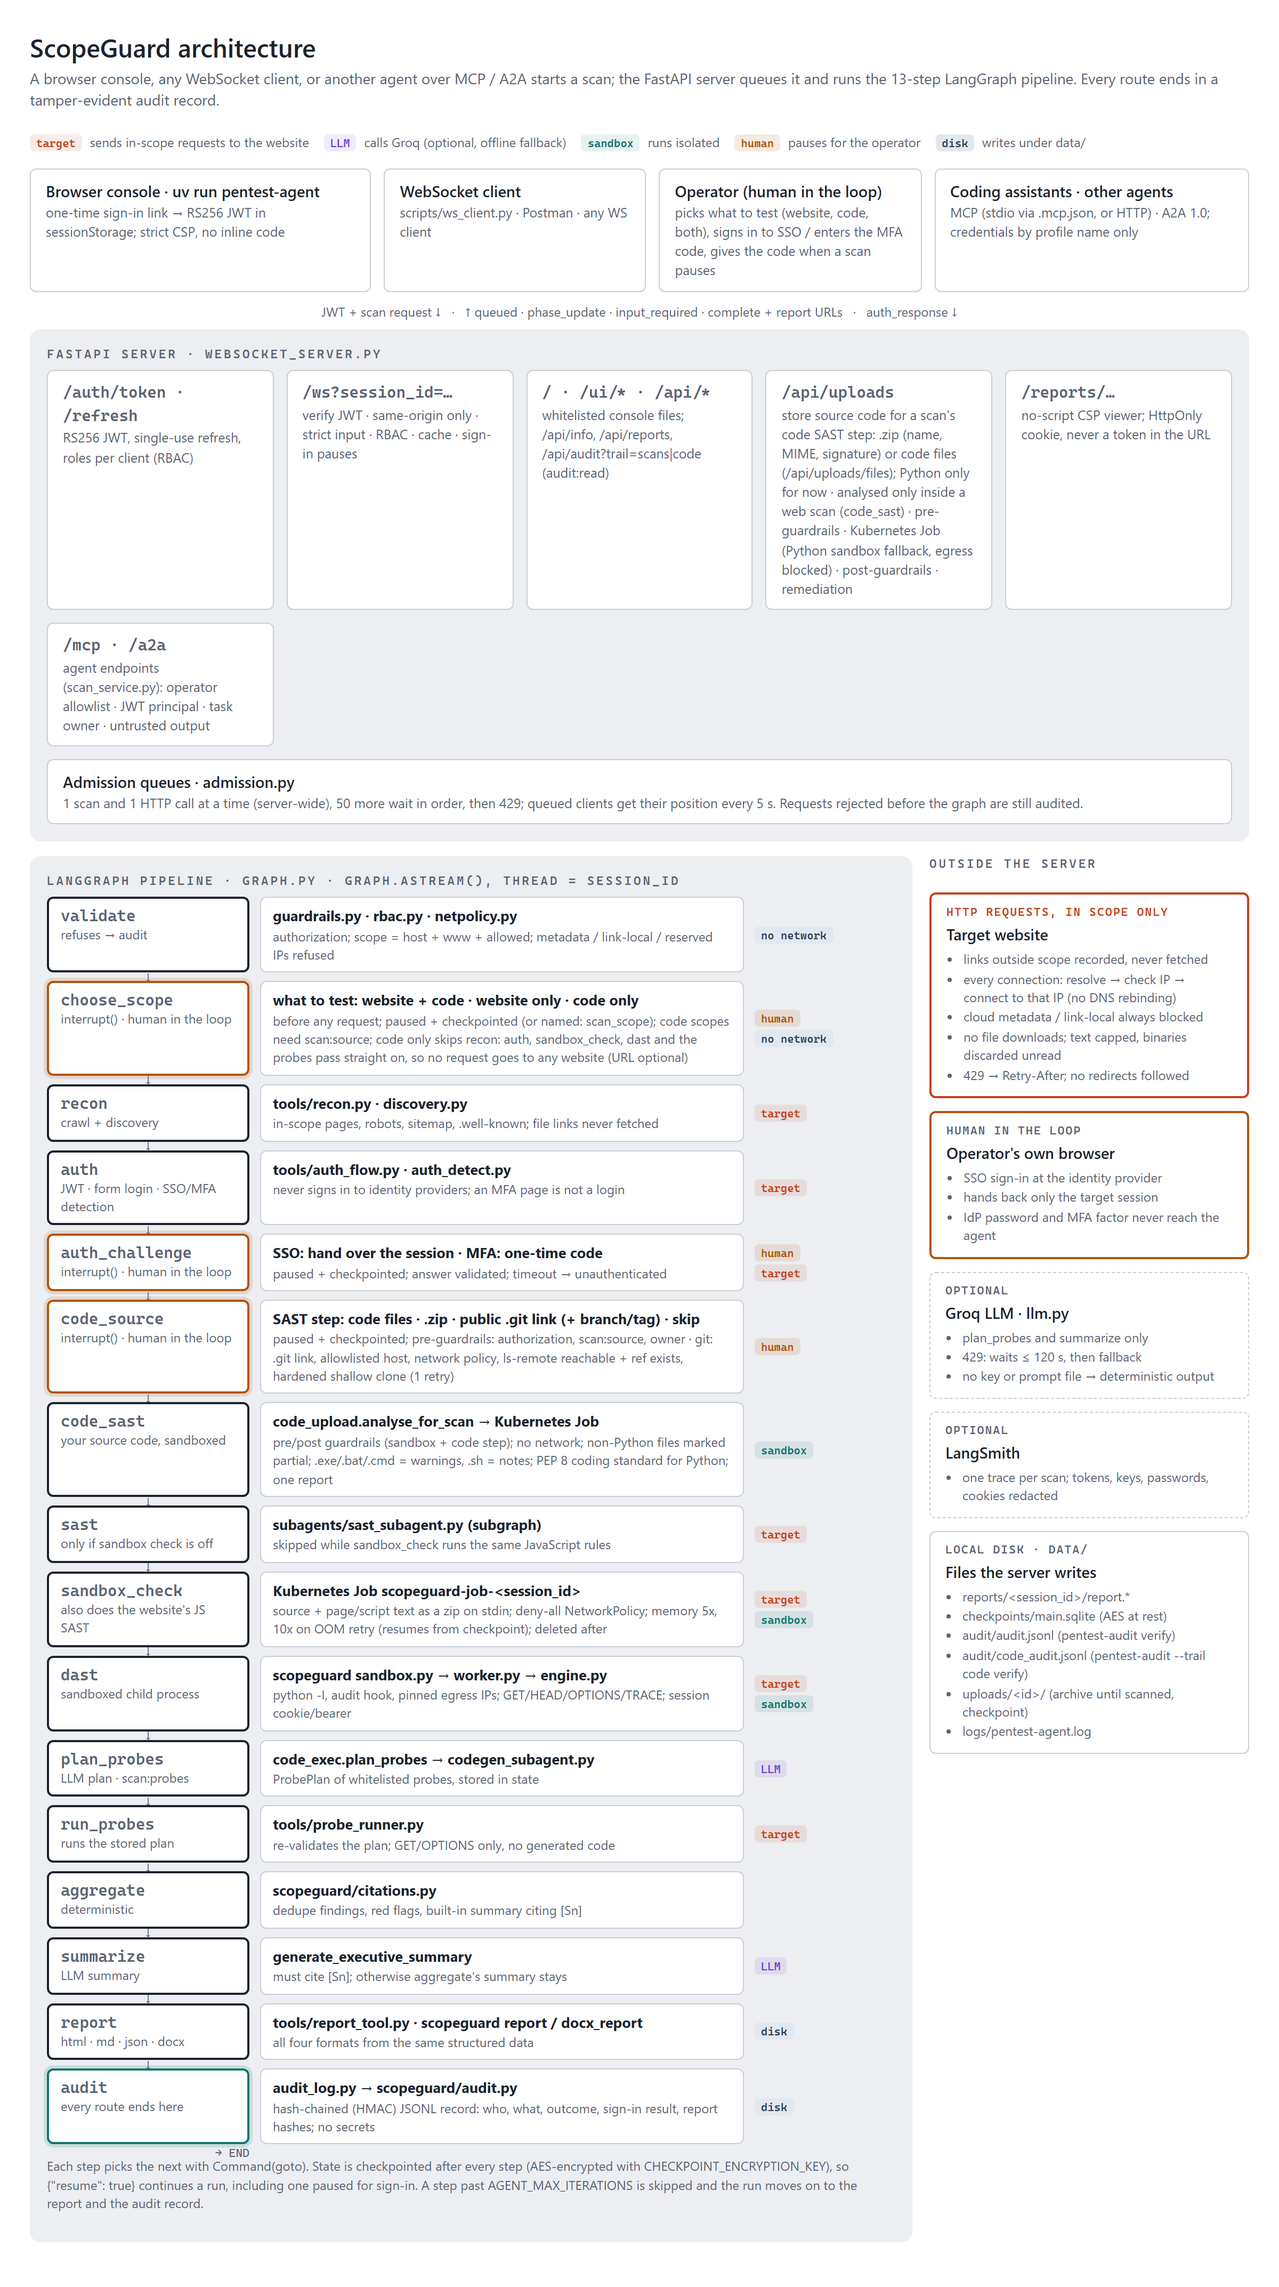
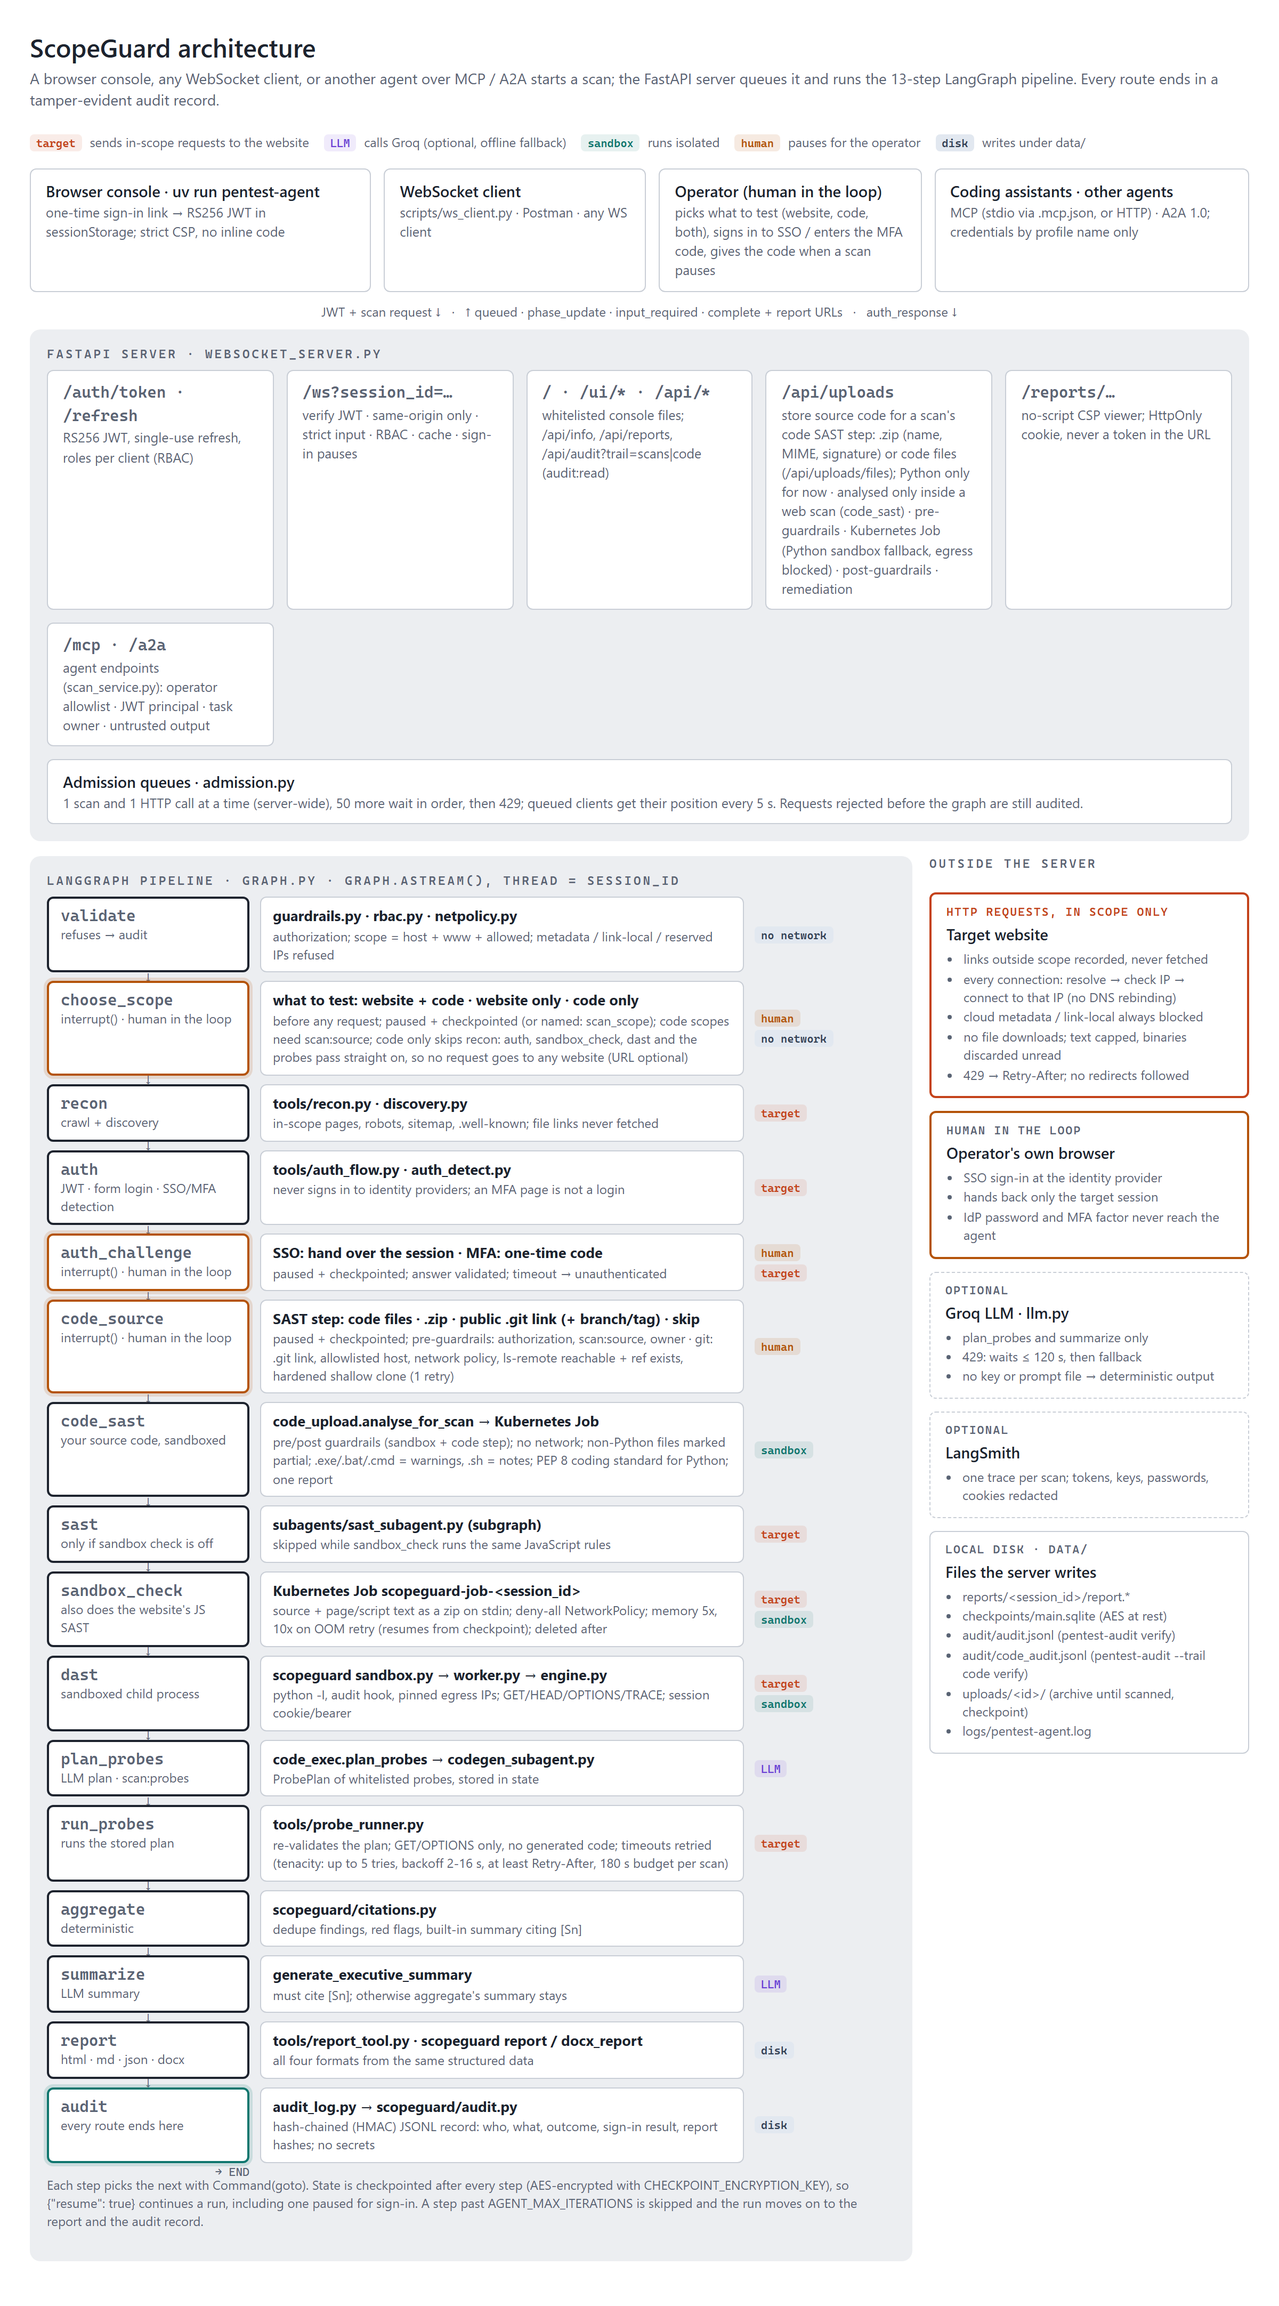
Retry timed-out probes with tenacity; plain red flags for failed probes
A custom probe whose request timed out (e.g. "csp_weakness at /:
ReadTimeout" after the DAST burst against a Vercel site) was tried once
and reported with the bare exception name.

- tenacity retries a probe on a timeout or dropped connection: up to
  PROBE_MAX_ATTEMPTS (5) tries, exponential backoff 2, 4, 8, 16 s, never
  shorter than the target's last Retry-After (RateLimitStats.last_wait,
  capped like the transport), 25 s timeout on retries
- all retries of one scan stay within PROBE_RETRY_BUDGET_SECONDS (180), so
  a site that is down does not stall the scan
- HTTP 429 stays in the transport (http_retry honours Retry-After)
- a probe that still fails gets a plain red flag: "the site sent no
  response within 25 s (tried 5 times), so this check was not run"
- tests (backoff, budget, Retry-After floor), README, diagrams, skill and
  .env.example updated

diff --git a/docs/src/scan-story.html b/docs/src/scan-story.html
@@ -128,7 +128,7 @@
   <div class="h2row"><h2>Act 3 · Testing and writing it up</h2><span>Careful, read-only checks, then the paperwork.</span></div>
   <div class="cards c3">
     <div class="card"><span class="n">14</span><h3>The Prober</h3><code>run_probes</code><span class="chip c-web">visits your website</span>
-      <p>Double-checks the plan, then runs those checks with reading requests only. A resumed scan doesn't ask the AI again.</p></div>
+      <p>Double-checks the plan, then runs those checks with reading requests only. If your site is slow to answer, it waits a little longer each time and tries again (up to 5 times); a check that still gets no answer is listed as not run. A resumed scan doesn't ask the AI again.</p></div>
     <div class="card"><span class="n">15</span><h3>The Collector</h3><code>aggregate</code>
       <p>Gathers every finding, removes duplicates, notes what couldn't be tested, and writes a factual summary where each statement points to its source, like [S1].</p></div>
     <div class="card"><span class="n">16</span><h3>The AI writer</h3><code>summarize</code><span class="chip c-ai">uses the AI</span>

diff --git a/docs/src/architecture.html b/docs/src/architecture.html
@@ -137,7 +137,7 @@
         <div class="tags"><i class="tag llm">LLM</i></div>
 
         <div class="node"><span class="t">run_probes</span><span>runs the stored plan</span></div>
-        <div class="mod"><b>tools/probe_runner.py</b><span>re-validates the plan; GET/OPTIONS only, no generated code</span></div>
+        <div class="mod"><b>tools/probe_runner.py</b><span>re-validates the plan; GET/OPTIONS only, no generated code; timeouts retried (tenacity: up to 5 tries, backoff 2-16 s, at least Retry-After, 180 s budget per scan)</span></div>
         <div class="tags"><i class="tag web">target</i></div>
 
         <div class="node"><span class="t">aggregate</span><span>deterministic</span></div>

diff --git a/src/pentest_agent/tools/probe_runner.py b/src/pentest_agent/tools/probe_runner.py
@@ -8,7 +8,15 @@ import time
 from urllib.parse import parse_qsl, urlencode, urljoin, urlparse, urlunparse
 
 import httpx
+from tenacity import (
+    RetryCallState,
+    Retrying,
+    retry_if_exception_type,
+    stop_after_attempt,
+    wait_exponential,
+)
 
+from pentest_agent.config import settings
 from pentest_agent.http_retry import rate_limited_client
 from pentest_agent.tools.probe_models import (
     MAX_PROBES,
@@ -19,12 +27,86 @@ from pentest_agent.tools.probe_models import (
 )
 from pentest_agent.tracing import traceable
 from pentest_agent.ttl_cache import TTLCache, make_key
-from scopeguard.ratelimit import RateLimitStats
+from scopeguard.ratelimit import DEFAULT_MAX_WAIT, RateLimitStats
 
 logger = logging.getLogger(__name__)
 
 MAX_RESPONSE_BYTES = 1_000_000
 REQUEST_TIMEOUT = 10.0
+# Retries (tenacity) for a probe whose request failed transiently: a timeout or a dropped
+# connection. Probes are read-only GET/OPTIONS, and a site often answers slowly for a moment after
+# the DAST burst. Up to settings.probe_max_attempts tries; exponential backoff 2, 4, 8, 16 s, never
+# shorter than the target's last Retry-After (RateLimitStats.last_wait, capped like the transport);
+# RETRY_TIMEOUT on retries; all retries of a scan within settings.probe_retry_budget_seconds.
+# HTTP 429 itself is retried by the transport (http_retry, honours Retry-After), never here.
+RETRY_TIMEOUT = 25.0
+RETRY_DELAY_SECONDS = 2.0
+RETRY_DELAY_MAX_SECONDS = 16.0
+_TRANSIENT = (httpx.TimeoutException, httpx.RemoteProtocolError, httpx.ReadError, httpx.WriteError)
+_BACKOFF = wait_exponential(multiplier=RETRY_DELAY_SECONDS, min=RETRY_DELAY_SECONDS, max=RETRY_DELAY_MAX_SECONDS)
+
+
+def _pause(seconds: float) -> None:  # tenacity's sleep; tests replace it
+    time.sleep(seconds)
+
+
+class RetryBudget:
+    """Seconds all probe retries of one scan may still spend (waits + retried requests)."""
+
+    def __init__(self, seconds: float):
+        self.left = float(seconds)
+
+
+def _execute_with_retries(client: httpx.Client, target_url: str, probe: ProbeCase, allowed: set[str],
+                          budget: RetryBudget, rate_stats: RateLimitStats) -> list[ProbeFinding]:
+    """execute_probe with tenacity: retried on a transient failure (timeout, dropped connection) with
+    exponential backoff, at least the target's last Retry-After, until settings.probe_max_attempts
+    tries or the scan's retry budget is spent. The last failure is re-raised with ``probe_attempts``."""
+    default_timeout = client.timeout
+    last_mark: list[float] = []
+
+    def wait(state: RetryCallState) -> float:
+        return min(max(_BACKOFF(state), rate_stats.last_wait), DEFAULT_MAX_WAIT)
+
+    def out_of_budget(state: RetryCallState) -> bool:
+        now = time.monotonic()
+        if last_mark:  # the wait + retried request that just failed
+            budget.left -= now - last_mark[0]
+        last_mark[:] = [now]
+        return budget.left < wait(state) + RETRY_TIMEOUT  # the next retry could cost that much
+
+    def before_sleep(state: RetryCallState) -> None:
+        client.timeout = httpx.Timeout(RETRY_TIMEOUT)
+        logger.info("Probe %s at %s failed transiently (%s, try %d of %d); retrying in %.0fs",
+                    probe.probe_type.value, probe.path, type(state.outcome.exception()).__name__,
+                    state.attempt_number, settings.probe_max_attempts, wait(state))
+
+    retrying = Retrying(retry=retry_if_exception_type(_TRANSIENT), wait=wait,
+                        stop=stop_after_attempt(settings.probe_max_attempts) | out_of_budget,
+                        before_sleep=before_sleep, sleep=lambda seconds: _pause(seconds), reraise=True)
+    try:
+        return retrying(execute_probe, client=client, base_url=target_url, probe=probe, allowed_domains=allowed)
+    except _TRANSIENT as exc:
+        exc.probe_attempts = retrying.statistics.get("attempt_number", 1)
+        if last_mark:
+            budget.left -= time.monotonic() - last_mark[0]
+        raise
+    finally:
+        client.timeout = default_timeout
+
+
+def describe_probe_failure(exc: BaseException, attempts: int = 1) -> str:
+    """A probe failure in plain words for the red flag (no stack trace, no response content)."""
+    tried = f"tried {attempts} time{'s' if attempts != 1 else ''}"
+    if isinstance(exc, httpx.TimeoutException):
+        wait = int(RETRY_TIMEOUT if attempts > 1 else REQUEST_TIMEOUT)
+        return (f"the site sent no response within {wait} s ({tried}), so this check was not run; the "
+                "site may have been slow or throttling requests after the DAST step")
+    if isinstance(exc, (httpx.RemoteProtocolError, httpx.ReadError, httpx.WriteError)):
+        return f"the site closed the connection ({tried}), so this check was not run"
+    if isinstance(exc, httpx.ConnectError):
+        return f"could not connect to the site ({str(exc)[:120] or type(exc).__name__}), so this check was not run"
+    return f"{type(exc).__name__}: {str(exc)[:160]}" if str(exc) else type(exc).__name__
 
 ALLOWED_METHODS = {"GET", "OPTIONS"}
 
@@ -807,6 +889,7 @@ def run_probe_plan(
 
     findings: list[ProbeFinding] = []
     errors: list[str] = []
+    budget = RetryBudget(settings.probe_retry_budget_seconds)  # all probe retries of this scan
 
     rate_stats = RateLimitStats()
     with rate_limited_client(
@@ -837,12 +920,7 @@ def run_probe_plan(
                     findings.extend(results)
                     continue
 
-                results = execute_probe(
-                    client=client,
-                    base_url=target_url,
-                    probe=probe,
-                    allowed_domains=allowed,
-                )
+                results = _execute_with_retries(client, target_url, probe, allowed, budget, rate_stats)
                 probe_cache.put(cache_key, results)
 
                 findings.extend(results)
@@ -862,7 +940,7 @@ def run_probe_plan(
 
                 errors.append(
                     f"{probe.probe_type.value} at {probe.path}: "
-                    f"{type(exc).__name__}"
+                    f"{describe_probe_failure(exc, getattr(exc, 'probe_attempts', 1))}"
                 )
 
     rate_flag = rate_stats.red_flag()

diff --git a/tests/test_probe_checks.py b/tests/test_probe_checks.py
@@ -200,3 +200,72 @@ def test_llm_plan_drops_parameter_probes_without_parameter():
     plan = ProbePlan(probes=[ProbeCase(probe_type=ProbeType.OPEN_REDIRECT, path="/", reason="t"),
                              ProbeCase(probe_type=ProbeType.CORS, path="/", reason="t")])
     assert [p.probe_type for p in cg.drop_unusable_probes(plan).probes] == [ProbeType.CORS]
+
+
+# ---------------------------------------------------------------- transient failures (tenacity)
+@pytest.fixture
+def waits(monkeypatch):
+    """The backoff waits tenacity asks for (nothing really sleeps)."""
+    seen = []
+    monkeypatch.setattr(pr, "_pause", seen.append)
+    return seen
+
+
+def _flaky_target(monkeypatch, fail_times):
+    timeouts = []
+
+    def handler(request):
+        timeouts.append(request.extensions.get("timeout", {}).get("read"))
+        if len(timeouts) <= fail_times:
+            raise httpx.ReadTimeout("The read operation timed out", request=request)
+        return httpx.Response(200, headers={"content-security-policy": "script-src 'unsafe-inline'"}, text="ok")
+
+    monkeypatch.setattr(pr, "rate_limited_client",
+                        lambda stats, verify=True, limits=None, **kw: httpx.Client(
+                            transport=httpx.MockTransport(handler), **kw))
+    return timeouts
+
+
+CSP = ProbeCase(probe_type=ProbeType.CSP_WEAKNESS, path="/", reason="t")
+
+
+def test_a_timed_out_probe_is_retried_with_a_longer_timeout(monkeypatch, waits):
+    timeouts = _flaky_target(monkeypatch, fail_times=1)
+    findings, errors = _run([CSP])
+    assert not errors and findings  # the retry got the answer
+    assert timeouts == [pr.REQUEST_TIMEOUT, pr.RETRY_TIMEOUT] and waits == [2]
+
+
+def test_up_to_five_tries_with_exponential_backoff(monkeypatch, waits):
+    timeouts = _flaky_target(monkeypatch, fail_times=4)
+    findings, errors = _run([CSP])
+    assert not errors and findings and len(timeouts) == 5  # the fifth try answered
+    assert waits == [2, 4, 8, 16]
+
+
+def test_a_probe_that_keeps_timing_out_gets_a_plain_red_flag(monkeypatch, waits):
+    timeouts = _flaky_target(monkeypatch, fail_times=99)
+    _findings, errors = _run([CSP, ProbeCase(probe_type=ProbeType.SERVER_BANNER, path="/", reason="t")])
+    assert len(timeouts) == 10  # 5 tries per probe, and the next probe still ran
+    assert errors[0] == ("csp_weakness at /: the site sent no response within 25 s (tried 5 times), so this "
+                         "check was not run; the site may have been slow or throttling requests after the "
+                         "DAST step")
+
+
+def test_the_retry_budget_stops_retries_for_a_site_that_is_down(monkeypatch, waits):
+    monkeypatch.setattr(pr.settings, "probe_retry_budget_seconds", 0)
+    timeouts = _flaky_target(monkeypatch, fail_times=99)
+    _findings, errors = _run([CSP])
+    assert len(timeouts) == 1 and not waits and "(tried 1 time)" in errors[0]
+
+
+def test_the_backoff_waits_at_least_the_targets_retry_after(monkeypatch, waits):
+    class Throttled(pr.RateLimitStats):  # the transport saw "Retry-After: 7" earlier in the run
+        def __init__(self):
+            super().__init__()
+            self.last_wait = 7.0
+
+    monkeypatch.setattr(pr, "RateLimitStats", Throttled)
+    _flaky_target(monkeypatch, fail_times=4)
+    _run([CSP])
+    assert waits == [7, 7, 8, 16]

diff --git a/src/pentest_agent/config.py b/src/pentest_agent/config.py
@@ -196,6 +196,13 @@ class Settings(BaseSettings):
 
     # Safety: max times any agent node (and sub-agent) may run in one scan.
     agent_max_iterations: int = Field(default=5, ge=1, le=20)
+    # Custom probes (tools/probe_runner.py): a probe whose request times out or loses its connection
+    # is retried with tenacity, up to PROBE_MAX_ATTEMPTS tries in all (exponential backoff 2, 4, 8,
+    # 16 s, never shorter than the target's last Retry-After; 25 s timeout on retries). All retries
+    # of one scan together take at most PROBE_RETRY_BUDGET_SECONDS, so a site that is down does not
+    # stall the scan. HTTP 429 itself is handled by the transport (http_retry), not here.
+    probe_max_attempts: int = Field(default=5, ge=1, le=10)
+    probe_retry_budget_seconds: int = Field(default=180, ge=0, le=1800)
 
     # Active file-upload testing: POST benign, disguised marker files to detected
     # upload forms to check extension/size validation. State-changing, so it needs

diff --git a/src/scopeguard/ratelimit.py b/src/scopeguard/ratelimit.py
@@ -66,6 +66,7 @@ class RateLimitStats:
     retries: int = 0             # retries performed
     gave_up: int = 0             # requests still throttled after the last retry
     waited_seconds: float = 0.0
+    last_wait: float = 0.0       # the latest wait the target asked for (Retry-After) or backed off
     urls: list[str] = field(default_factory=list)
     _lock: threading.Lock = field(default_factory=threading.Lock, repr=False, compare=False)
 
@@ -75,6 +76,8 @@ class RateLimitStats:
             self.retries += int(retried)
             self.gave_up += int(gave_up)
             self.waited_seconds += waited
+            if retried:
+                self.last_wait = waited
             if gave_up and url not in self.urls and len(self.urls) < 50:
                 self.urls.append(url)
 

diff --git a/README.md b/README.md
@@ -789,6 +789,14 @@ content-injection reminder; without that reminder prompt the LLM is not called a
 the baseline checks on `/`, then open-redirect checks on redirect-like parameters (`next`, `url`, `return`, ...),
 directory-listing checks on up to two crawled directories, then reflection checks.
 
+**Slow or flaky sites.** A probe whose request times out or loses its connection is retried with
+tenacity: up to `PROBE_MAX_ATTEMPTS` (5) tries, exponential backoff 2, 4, 8, 16 s (never shorter than
+the `Retry-After` the site sent earlier in the run), 25 s to answer on a retry. All retries of one scan
+together take at most `PROBE_RETRY_BUDGET_SECONDS` (180), so a site that is down does not stall the
+scan. HTTP 429 itself is retried by the transport, which honours `Retry-After`. A check that still
+fails becomes a plain red flag, e.g. "csp_weakness at /: the site sent no response within 25 s
+(tried 5 times), so this check was not run".
+
 ## Caching (saves LLM cost and repeat requests)
 
 Identical work within `CACHE_TTL_SECONDS` (default 300, i.e. 5 minutes; `0` turns caching off) is reused

diff --git a/.claude/skills/scopeguard-scan/SKILL.md b/.claude/skills/scopeguard-scan/SKILL.md
@@ -130,7 +130,9 @@ Severity: critical N · high N · medium N · low N · info N
   reflected parameter), so recommend checking each one before treating it as confirmed.
 - Group the long tail of identical header findings ("Missing CSP" on 12 pages) into one line
   instead of listing each.
-- Mention coverage limits from red flags, for example "login area not tested: no credentials".
+- Mention coverage limits from red flags, for example "login area not tested: no credentials", or
+  "csp_weakness at /: the site sent no response ... (tried 5 times), so this check was not run" (the site
+  was slow or throttling; a later scan may cover it). That is a coverage gap, not a vulnerability.
   A clean scan of half the app is not a clean app.
 
 ## Fixing findings in the user's code
